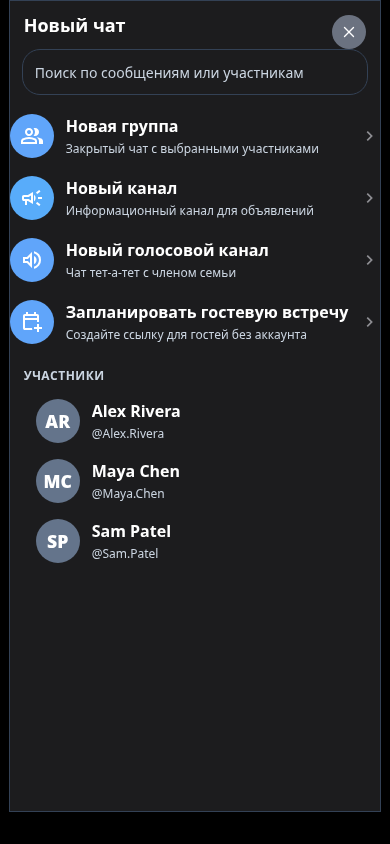
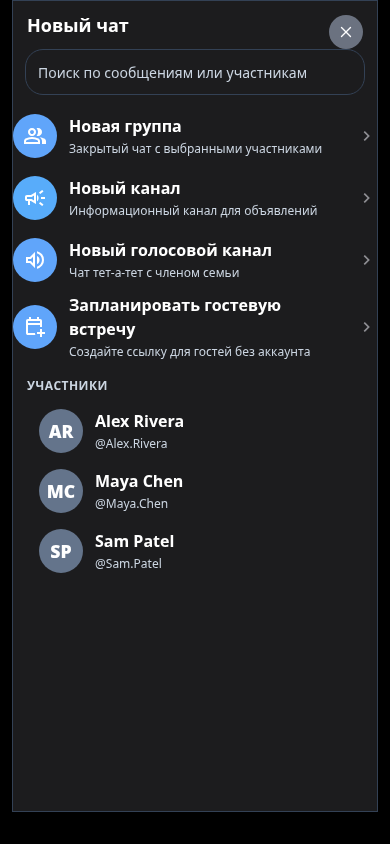
[Fix] keep mobile layout within frontend guards

Changed region(s): [[0.0, 0.0, 0.8923, 0.955], [0.8308, 0.0, 0.9846, 0.955]]

diff --git a/frontend/src/dev/mockApi.ts b/frontend/src/dev/mockApi.ts
@@ -2,7 +2,7 @@ import { mockCanvasResponse } from "./mockCanvas";
 import { updateMockFamilySettings } from "./mockFamilySettings";
 import type { AuthResponse } from "../api/auth";
 import type { Chat, Message, MessageHistoryPage } from "../api/chats";
-import { createMockData, createMockManifest } from "./mockFixtures";
+import { addMobileLayoutMessages, createMockData, createMockManifest } from "./mockFixtures";
 import type { MockData } from "./mockFixtures";
 import { getMockUserId } from "./mockBootstrap";
 import { handleMockCollectionRequest, resetMockCollections } from "./mockCollections";
@@ -44,7 +44,6 @@ function jsonResponse(value: unknown, status = 200): Response {
   });
 }
 const errorResponse = (status: number, detail: string): Response => jsonResponse({ detail }, status);
-
 function findMessage(messageId: string): Message | undefined {
   return Object.values(mockData.messages).flat().find((message) => message.id === messageId);
 }
@@ -398,44 +397,7 @@ export function installMockApi(options: { origin?: string; scenario?: string } =
           else signal?.addEventListener("abort", abort, { once: true });
         });
       }
-      if (scenario === "mobile-layout-canvas" || scenario === "mobile-layout-meetup") {
-        const response = await handleMockRequest(url, method, input, init);
-        const page = await response.json() as MessageHistoryPage;
-        const currentUserId = getMockUserId();
-        const otherUser = mockData.users.find((user) => user.id !== currentUserId) ?? mockData.users[0];
-        const visualMessage = (id: string, senderId: string, type: Message["type"], content: string | null, createdAt: string): Message => ({
-          id,
-          chatId: "chat-planning-team",
-          senderId,
-          senderDisplayName: mockData.users.find((user) => user.id === senderId)?.displayName ?? "Stovo Demo",
-          type,
-          content,
-          encryptionProtocol: "legacy_plaintext",
-          ciphertext: null,
-          nonce: null,
-          keyVersion: null,
-          encryptionMetadata: null,
-          replyToMessageId: null,
-          threadRootMessageId: null,
-          messageKind: "chat",
-          createdAt,
-          updatedAt: createdAt,
-          deletedAt: null,
-          isEdited: false,
-          forwardedFrom: null,
-          statuses: [],
-          reactions: [],
-          attachments: [],
-          ...(type === "canvas" ? { canvas: { id: "canvas-planning-notes", title: "Untitled canvas", available: true } } : {}),
-        });
-        const visualMessages = scenario === "mobile-layout-canvas"
-          ? [visualMessage("visual-canvas-card", currentUserId, "canvas", null, "2026-10-18T09:00:00.000Z")]
-          : [
-            visualMessage("visual-meetup-incoming", otherUser.id, "text", 'guest-meeting-card:{"title":"Some meetup","timing":"Starts when the host opens the meeting.","entry":"Anyone with this link can join.","url":"http://127.0.0.1:5174/meet/mock"}', "2026-10-18T09:00:00.000Z"),
-            visualMessage("visual-meetup-outgoing", currentUserId, "text", 'guest-meeting-card:{"title":"Meetup","timing":"Starts when the host opens the meeting.","entry":"Anyone with this link can join.","url":"http://127.0.0.1:5174/meet/mock"}', "2026-10-18T09:05:00.000Z"),
-          ];
-        return jsonResponse({ ...page, messages: [...page.messages, ...visualMessages] });
-      }
+      if (scenario === "mobile-layout-canvas" || scenario === "mobile-layout-meetup") return addMobileLayoutMessages(handleMockRequest(url, method, input, init), scenario, getMockUserId(), mockData.users).then(jsonResponse);
     }
     return handleMockRequest(url, method, input, init);
   };

diff --git a/frontend/src/dev/mockFixtures.ts b/frontend/src/dev/mockFixtures.ts
@@ -1,5 +1,5 @@
 import type { User } from "../api/auth";
-import type { Chat, ChatMember, Message, PinnedMessage } from "../api/chats";
+import type { Chat, ChatMember, Message, MessageHistoryPage, PinnedMessage } from "../api/chats";
 import type { Family } from "../api/family";
 import type { ServerManifest } from "../config/profileManifest";
 import {
@@ -333,4 +333,47 @@ export function createMockData(): MockData {
 
 export function createMockManifest(): ServerManifest {
   return structuredClone(fixtureData.manifest);
+}
+
+export async function addMobileLayoutMessages(
+  response: Promise<Response>,
+  scenario: "mobile-layout-canvas" | "mobile-layout-meetup",
+  currentUserId: string,
+  users: User[],
+): Promise<MessageHistoryPage> {
+  const page = await (await response).json() as MessageHistoryPage;
+  const otherUser = users.find((user) => user.id !== currentUserId) ?? users[0];
+  const message = (id: string, senderId: string, type: Message["type"], content: string | null, createdAt: string): Message => ({
+    id,
+    chatId: "chat-planning-team",
+    senderId,
+    senderDisplayName: users.find((user) => user.id === senderId)?.displayName ?? "Stovo Demo",
+    type,
+    content,
+    encryptionProtocol: "legacy_plaintext",
+    ciphertext: null,
+    nonce: null,
+    keyVersion: null,
+    encryptionMetadata: null,
+    replyToMessageId: null,
+    threadRootMessageId: null,
+    messageKind: "chat",
+    createdAt,
+    updatedAt: createdAt,
+    deletedAt: null,
+    isEdited: false,
+    forwardedFrom: null,
+    statuses: [],
+    reactions: [],
+    attachments: [],
+    ...(type === "canvas" ? { canvas: { id: "canvas-planning-notes", title: "Untitled canvas", available: true } } : {}),
+  });
+  const meetingText = 'guest-meeting-card:{"title":"Meetup","timing":"Starts when the host opens the meeting.","entry":"Anyone with this link can join.","url":"http://127.0.0.1:5174/meet/mock"}';
+  const messages = scenario === "mobile-layout-canvas"
+    ? [message("visual-canvas-card", currentUserId, "canvas", null, "2026-10-18T09:00:00.000Z")]
+    : [
+      message("visual-meetup-incoming", otherUser.id, "text", meetingText.replace("Meetup", "Some meetup"), "2026-10-18T09:00:00.000Z"),
+      message("visual-meetup-outgoing", currentUserId, "text", meetingText, "2026-10-18T09:05:00.000Z"),
+    ];
+  return { ...page, messages: [...page.messages, ...messages] };
 }

diff --git a/frontend/src/styles/compact-media-previews.css b/frontend/src/styles/compact-media-previews.css
@@ -79,6 +79,15 @@
   }
 }
 
+@media (max-width: 1024px) {
+  .popup-dialog.new-chat-screen {
+    box-sizing: border-box;
+    max-width: 640px;
+    min-width: 0;
+    width: min(640px, calc(100vw - 24px));
+  }
+}
+
 /* Storage grids have several later desktop-size declarations; keep phone tiles
    compact so two 140px previews fit on narrow screens. */
 @media (max-width: 767px) {

diff --git a/frontend/src/styles/chat-details.css b/frontend/src/styles/chat-details.css
@@ -305,15 +305,6 @@
   width: 640px;
 }
 
-@media (max-width: 1024px) {
-  .popup-dialog.new-chat-screen {
-    box-sizing: border-box;
-    max-width: 640px;
-    min-width: 0;
-    width: min(640px, calc(100vw - 24px));
-  }
-}
-
 @media (max-width: 767px) {
   .popup-backdrop.new-chat-modal-backdrop {
     align-items: stretch;
